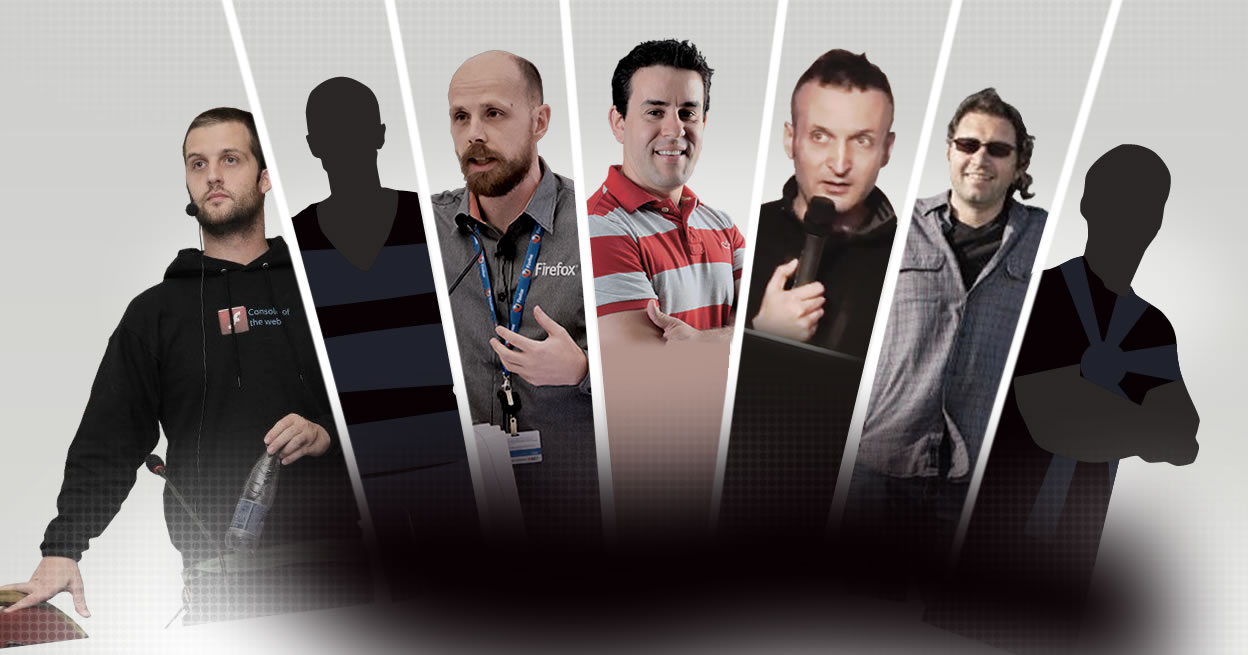
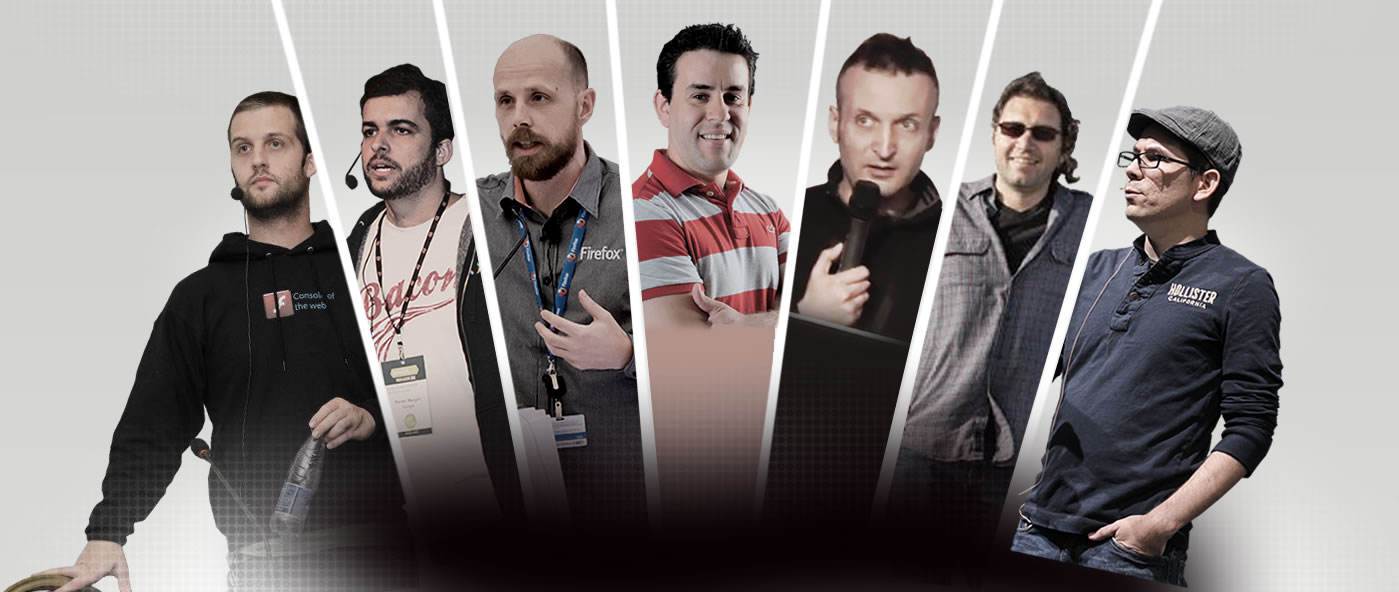
Adding updated files

diff --git a/speakers/caridy.html b/speakers/caridy.html
@@ -6,8 +6,8 @@
     <head>
         <meta charset="utf-8" />
         <meta http-equiv="X-UA-Compatible" content="IE=edge,chrome=1" />
-        <title>Douglas Crockford - BrazilJS 2013</title>
-        <meta name="description" content="BrazilJS Conf 2013 - Douglas Crockford" />
+        <title>Caridy Patino - BrazilJS 2013</title>
+        <meta name="description" content="BrazilJS Conf 2013 - Caridy Patino" />
         <meta name="author" content="marimbondo.me - Web com gominho :)" />
         <link rel="apple-touch-icon" href="../apple-touch-icon.png" />
         <link rel="icon" href="../facebook.png" type="image/x-icon">
@@ -21,29 +21,29 @@
         <link rel="stylesheet" href="../css/main.css" />
         <link rel="stylesheet" href="css/context.css" />
         <link type="text/plain" rel="author" href="../humans.txt" />
-        <link rel="canonical" href="http://braziljs.com.br/speakers/douglas.html" />
+        <link rel="canonical" href="http://braziljs.com.br/speakers/caridy.html" />
 
         <!--[if lt IE 9]>
                 <script src="//html5shim.googlecode.com/svn/trunk/html5.js"></script>
         <![endif]-->
 
         <!-- OPEN GRAPH -->
-        <meta property="og:url" content="http://braziljs.com.br/speakers/douglas.html" />
+        <meta property="og:url" content="http://braziljs.com.br/speakers/caridy.html" />
         <meta property="og:type" content="Website" /> 
-        <meta property="og:title" content="Douglas Crockford - BrazilJS Conf 2013!" /> 
+        <meta property="og:title" content="Caridy Patino - BrazilJS Conf 2013!" /> 
         <meta property="og:image" content="http://braziljs.com.br/facebook.png" /> 
-        <meta property="og:description" content="Venha assistir a palestra de Douglas Crockford na BrazilJS Conf - 2013!" />
+        <meta property="og:description" content="Venha assistir a palestra de Caridy Patino na BrazilJS Conf - 2013!" />
 		<meta property="fb:admins" content="1114477480" /> 
 		<meta property="fb:app_id" content="136223956547034" /> 
 		<meta property="og:site_name" content="BrazilJS Conference" />
 
     </head>
-    <body class="douglas">
+    <body class="caridy">
     	<div class="wrapper">    		
 			<div id="speakers">
 				<div class="speakers-wrapper">
 					<span class="burst">&nbsp;</span>
-					<span class="speaker ir">Olá meu nome é Douglas Crockford</span>
+					<span class="speaker ir">Olá meu nome é Caridy Patino</span>
 					<div class="ballons">
 						<span class="calling what">vem ver minha palestra...</span>
 						<span class="calling where">... na <b>brazilJs conf!!</b></span>
@@ -54,28 +54,32 @@
 			</div>
 			<div class="speaker-info">
 				<div class="info-container">
-					<h1 class="name" itemprop="name">Douglas Crockford</h1>
-					<strong class="company" itemprop="worksFor">Paypal</strong>					
+					<h1 class="name" itemprop="name">Caridy Patino</h1>
+					<strong class="company" itemprop="worksFor">Yahoo!</strong>					
 				</div>
 				<div id="social-networks">
 					<strong class="like-it ir ico-general">Curtiu? Compartilha!</strong>
 					<ul>
-						<li><div class="fb-like" data-href="http://braziljs.com.br/speakers/douglas.html" data-send="false" data-layout="box_count" data-width="72" data-show-faces="false"></div></li>
-						<li><a href="https://twitter.com/share" class="twitter-share-button" data-url="http://braziljs.com.br/speakers/douglas.html" data-via="braziljs" data-lang="en" data-count="vertical">Tweet</a></li>
+						<li><div class="fb-like" data-href="http://braziljs.com.br/speakers/caridy.html" data-send="false" data-layout="box_count" data-width="72" data-show-faces="false"></div></li>
+						<li><a href="https://twitter.com/share" class="twitter-share-button" data-url="http://braziljs.com.br/speakers/caridy.html" data-via="braziljs" data-lang="en" data-count="vertical">Tweet</a></li>
 						<li><div class="g-plusone" data-size="tall"></div></li>
 					</ul>
 				</div>
 				<div class="description" itemprop="description">
-					<p>Doug estava lá durante o nascimento desta midia que conquista a nossa atenção e tempo, desde então, se tornou um dos precursores e líderes no JavaScript, a linguagem de programação mais popular do mundo.</p>
-					<p>Foi o descobridor do do formato JSON (JavaScript Object Notation) enquanto era o CTO de State Software, criou a ferramenta JSLint e é o autor do referenciado JavaScript: The Good Parts.</p>
+					<p>Principal desenvolvedor front-end no Yahoo!, membro do core team da biblioteca YUI com extensiva experiência em end-to-end design e arquitetura de aplicações web performáticas e escaláveis.</p>
+					<p>No momento, Caridy esta focado nas plataformas SSJS/NodeJS e Yahoo! Cocktails.</p>
+					<p>Caridy é palestrante, mentor e professor.</p>
 				</div>
 				<h2 class="find-me">Nas redes sociais:</h2>
 				<ul class="my-social-links">
 					<li>
-						<a class="github" href="https://github.com/douglascrockford" title="github">github</a>
+						<a class="github" href="https://github.com/caridy" title="github">github</a>
 					</li>
 					<li>
-						<a class="blog" href="http://www.crockford.com/" title="http://www.crockford.com/" itemprop="url">http://www.crockford.com/</a>
+						<a class="twitter" href="https://twitter.com/caridy" title="Twitter">Twitter</a>
+					</li>					
+					<li>
+						<a class="blog" href="http://caridy.name" title="http://caridy.name" itemprop="url">http://caridy.name</a>
 					</li>															
 				</ul>
 				<a href="//www.braziljs.com.br" title="Home" class="home-container">

diff --git a/speakers/renato.html b/speakers/renato.html
@@ -6,8 +6,8 @@
     <head>
         <meta charset="utf-8" />
         <meta http-equiv="X-UA-Compatible" content="IE=edge,chrome=1" />
-        <title>Douglas Crockford - BrazilJS 2013</title>
-        <meta name="description" content="BrazilJS Conf 2013 - Douglas Crockford" />
+        <title>Renato Mangini - BrazilJS 2013</title>
+        <meta name="description" content="BrazilJS Conf 2013 - Renato Mangini" />
         <meta name="author" content="marimbondo.me - Web com gominho :)" />
         <link rel="apple-touch-icon" href="../apple-touch-icon.png" />
         <link rel="icon" href="../facebook.png" type="image/x-icon">
@@ -21,29 +21,29 @@
         <link rel="stylesheet" href="../css/main.css" />
         <link rel="stylesheet" href="css/context.css" />
         <link type="text/plain" rel="author" href="../humans.txt" />
-        <link rel="canonical" href="http://braziljs.com.br/speakers/douglas.html" />
+        <link rel="canonical" href="http://braziljs.com.br/speakers/renato.html" />
 
         <!--[if lt IE 9]>
                 <script src="//html5shim.googlecode.com/svn/trunk/html5.js"></script>
         <![endif]-->
 
         <!-- OPEN GRAPH -->
-        <meta property="og:url" content="http://braziljs.com.br/speakers/douglas.html" />
+        <meta property="og:url" content="http://braziljs.com.br/speakers/renato.html" />
         <meta property="og:type" content="Website" /> 
-        <meta property="og:title" content="Douglas Crockford - BrazilJS Conf 2013!" /> 
+        <meta property="og:title" content="Renato Mangini - BrazilJS Conf 2013!" /> 
         <meta property="og:image" content="http://braziljs.com.br/facebook.png" /> 
-        <meta property="og:description" content="Venha assistir a palestra de Douglas Crockford na BrazilJS Conf - 2013!" />
+        <meta property="og:description" content="Venha assistir a palestra de Renato Mangini na BrazilJS Conf - 2013!" />
 		<meta property="fb:admins" content="1114477480" /> 
 		<meta property="fb:app_id" content="136223956547034" /> 
 		<meta property="og:site_name" content="BrazilJS Conference" />
 
     </head>
-    <body class="douglas">
+    <body class="renato">
     	<div class="wrapper">    		
 			<div id="speakers">
 				<div class="speakers-wrapper">
 					<span class="burst">&nbsp;</span>
-					<span class="speaker ir">Olá meu nome é Douglas Crockford</span>
+					<span class="speaker ir">Olá meu nome é Renato Mangini</span>
 					<div class="ballons">
 						<span class="calling what">vem ver minha palestra...</span>
 						<span class="calling where">... na <b>brazilJs conf!!</b></span>
@@ -54,28 +54,30 @@
 			</div>
 			<div class="speaker-info">
 				<div class="info-container">
-					<h1 class="name" itemprop="name">Douglas Crockford</h1>
-					<strong class="company" itemprop="worksFor">Paypal</strong>					
+					<h1 class="name" itemprop="name">Renato Mangini</h1>
+					<strong class="company" itemprop="worksFor">Google</strong>					
 				</div>
 				<div id="social-networks">
 					<strong class="like-it ir ico-general">Curtiu? Compartilha!</strong>
 					<ul>
-						<li><div class="fb-like" data-href="http://braziljs.com.br/speakers/douglas.html" data-send="false" data-layout="box_count" data-width="72" data-show-faces="false"></div></li>
-						<li><a href="https://twitter.com/share" class="twitter-share-button" data-url="http://braziljs.com.br/speakers/douglas.html" data-via="braziljs" data-lang="en" data-count="vertical">Tweet</a></li>
+						<li><div class="fb-like" data-href="http://braziljs.com.br/speakers/renato.html" data-send="false" data-layout="box_count" data-width="72" data-show-faces="false"></div></li>
+						<li><a href="https://twitter.com/share" class="twitter-share-button" data-url="http://braziljs.com.br/speakers/renato.html" data-via="braziljs" data-lang="en" data-count="vertical">Tweet</a></li>
 						<li><div class="g-plusone" data-size="tall"></div></li>
 					</ul>
 				</div>
 				<div class="description" itemprop="description">
-					<p>Doug estava lá durante o nascimento desta midia que conquista a nossa atenção e tempo, desde então, se tornou um dos precursores e líderes no JavaScript, a linguagem de programação mais popular do mundo.</p>
-					<p>Foi o descobridor do do formato JSON (JavaScript Object Notation) enquanto era o CTO de State Software, criou a ferramenta JSLint e é o autor do referenciado JavaScript: The Good Parts.</p>
+					<p>Renato Mangini é <span itemprop="jobTitle">engenheiro de software</span> da equipe de Developer Relations do Google Chrome, empreendedor, geek, mountain biker e corredor amador nas horas vagas.</p>					
 				</div>
 				<h2 class="find-me">Nas redes sociais:</h2>
 				<ul class="my-social-links">
 					<li>
-						<a class="github" href="https://github.com/douglascrockford" title="github">github</a>
+						<a class="github" href="http://github.com/mangini" title="github">github</a>
 					</li>
 					<li>
-						<a class="blog" href="http://www.crockford.com/" title="http://www.crockford.com/" itemprop="url">http://www.crockford.com/</a>
+						<a class="twitter" href="http://twitter.com/renatomangini" title="Twitter">Twitter</a>
+					</li>					
+					<li>
+						<a class="blog" href="http://www.renatomangini.com/" title="renatomangini.com" itemprop="url">http://www.renatomangini.com/</a>
 					</li>															
 				</ul>
 				<a href="//www.braziljs.com.br" title="Home" class="home-container">

diff --git a/speakers/css/context.css b/speakers/css/context.css
@@ -1,4 +1,4 @@
-#speakers { padding-top:159px; background:url('../img/bgr-speaker.jpg') repeat-x; }
+#speakers { padding-top:159px; background:url('../img/bgr-speaker.jpg') repeat-x; }		
 #speakers .speakers-wrapper { top:-101px; height:300px; }
 #speakers .burst { position:absolute; left:-251px; top:-128px; width:1528px; height:582px; background:url('../img/bg-speakers.jpg') center center no-repeat; }
 #speakers .speakers-wrapper .speaker { position:absolute; left:-21px; margin:0; width:431px; height:433px; z-index:5; }
@@ -8,6 +8,8 @@
 .robert #speakers .speakers-wrapper .speaker { background:url('../img/robert.png') no-repeat; }
 .angus #speakers .speakers-wrapper .speaker { top:16px; background:url('../img/angus.png') no-repeat; }
 .thibault #speakers .speakers-wrapper .speaker { left:-20px; top:10px; background:url('../img/thibault.png') no-repeat; }
+.caridy #speakers .speakers-wrapper .speaker { left:-20px; top:-5px; background:url('../img/caridy.png') no-repeat; }
+.renato #speakers .speakers-wrapper .speaker { left:-20px; top:-5px; background:url('../img/renato.png') no-repeat; }
 #speakers .speakers-wrapper .ballons { position:relative; top:-24px; left:270px; width:224px; height:212px; background:url('../img/ballons.png') no-repeat; }
 #speakers .speakers-wrapper .ballons .calling { position:absolute; font-size:16px; color:#FFF; width:127px; font-family:"Comic Sans MS", 'arial'; text-transform:uppercase; text-align:center; -webkit-transform:rotate(-22deg); -moz-transform:rotate(-22deg); -o-transform:rotate(-22deg); -ms-transform:rotate(-22deg); transform:rotate(-22deg); }
 #speakers .speakers-wrapper .ballons .calling.what { left:5px; top:22px; }
@@ -44,7 +46,38 @@
 
 @media (min-width: 0) and (max-width: 500px) {
 
-	#speakers .speakers-wrapper { width:1000px; }
-	#speakers .cities { position:absolute; display:inline; height:278px; background: url("../../img/bg-header.png") repeat-x center center; }
+	#speakers { overflow:visible; padding-top:82px; margin-bottom:100px; }
+	#speakers .speakers-wrapper { width:350px; height:66px; background:none; }
+	#speakers .burst { position:static; display:block; width:482px; height:92px; background:url('../img/mobile/bg-thunder.png') center center no-repeat; }
+	#speakers .speakers-wrapper .speaker { left:-5px; top:36px; width:200px; height:310px; z-index:6; }
+	.douglas  #speakers .speakers-wrapper .speaker { left:-4px; top:51px; background:url('../img/mobile/douglas.png') no-repeat; }
+	.robert #speakers .speakers-wrapper .speaker { left:-2px; top:40px; background:url('../img/mobile/robert.png') no-repeat; }
+	.thibault #speakers .speakers-wrapper .speaker { left:-48px; top:48px; width:238px; background:url('../img/mobile/thibault.png') no-repeat; }
+	.stoyan  #speakers .speakers-wrapper .speaker { left:-29px; top:58px; background:url('../img/mobile/stoyan.png') no-repeat; }
+	.angus  #speakers .speakers-wrapper .speaker { left:-3px; top:79px; background:url('../img/mobile/angus.png') no-repeat; }
+	.marcel  #speakers .speakers-wrapper .speaker { left:-3px; top:79px; background:url('../img/mobile/marcel.png') no-repeat; }
+	.caridy  #speakers .speakers-wrapper .speaker { left:-2px; top:34px; background:url('../img/mobile/caridy.png') no-repeat; }
+	.renato  #speakers .speakers-wrapper .speaker { left:-7px; top:50px; width:212px; background:url('../img/mobile/renato.png') no-repeat; }
+	#speakers .speakers-wrapper .logo { float:none; display:block; left:128px; top:-109px; width:178px; height:82px; background:url('../img/mobile/logo.png') no-repeat; }
+	#speakers .speakers-wrapper .ballons { left:197px; top:147px; height:81px; width:97px; background:url('../img/mobile/ttl-general.png') no-repeat; }
+	#speakers .speakers-wrapper .ballons .calling.what { display:none; }
+	#speakers .speakers-wrapper .ballons .calling.where { display:none; }	
+
+	.speaker-info { margin:auto; padding:0 15px; width:320px; }
+	.speaker-info .info-container { margin-bottom:20px; }
+	.speaker-info .info-container .name { font-size:26px; line-height:26px; }
+	.speaker-info .info-container .company { font-size:16px; line-height:16px; }
+	.speaker-info #social-networks { float:left; left:-115px; margin-bottom:20px; padding:43px 150px; width:550px; height:182px; background-color:#161414; }
+	.speaker-info #social-networks .like-it { bottom:29px; left:127px; width:90px; height:61px; background:url('../img/mobile/ico-general.png') no-repeat; }
+	.speaker-info .description { width:285px; font-size:14px; }
+	.speaker-info .my-social-links { margin-bottom:50px; }
+	.speaker-info .home-container { margin-bottom:45px; width:255px; }
+	.speaker-info .home-container .home { width:207px; height:52px; background:url('../img/mobile/ttl-general.png') -7px -83px no-repeat; }
+
+	.footer-container { height:53px; }
+	.footer-container .cities,
+	.footer-container .gradient { display:none; }
+	.footer-container .debug { width:300px;}
+	.footer-container .debug .coins { display:block; margin-left:75px; }
 
 }

diff --git a/css/main.css b/css/main.css
@@ -133,7 +133,7 @@ body { background-color:#201C1D; }
 /* SPEAKERS */
 #speakers { width:100%; position:relative; background-color:#D3D3D1; overflow:hidden; background-image: -webkit-linear-gradient(bottom, rgb(220,222,217) 15%, rgb(209,209,204) 66%); background-image:-moz-linear-gradient(50% 0% -90deg,rgb(207,208,205) 0%,rgba(207,208,205,0) 25%); background-image: -o-linear-gradient(bottom, rgb(220,222,217) 15%, rgb(209,209,204) 66%); background-image: -ms-linear-gradient(bottom, rgb(220,222,217) 15%, rgb(209,209,204) 66%); background-image:linear-gradient(bottom, rgb(220,222,217) 15%, rgb(209,209,204) 66%); }
 #speakers .speakers-wrapper { position:relative; margin:auto; height:605px; width:1000px; }
-#speakers .speakers-wrapper .shadows { position:absolute; left:-220px; width:1333px; height:619px; background:url('../img/shadows.jpg') no-repeat center center; }
+#speakers .speakers-wrapper .shadows { position:absolute; left:-176px; width:1333px; height:590px; background:url('../img/shadows.jpg') no-repeat center center; }
 #speakers .cities { position:absolute; bottom:-71px; height:278px; width:100%; background:url('../img/bg-header.png') repeat-x center center; z-index:2; }
 
 /* HEADER */

diff --git a/speakers/marcel.html b/speakers/marcel.html
@@ -11,7 +11,7 @@
         <meta name="author" content="marimbondo.me - Web com gominho :)" />
         <link rel="apple-touch-icon" href="../apple-touch-icon.png" />
         <link rel="icon" href="../facebook.png" type="image/x-icon">        
-	    
+	    <meta name="viewport" content="width=device-width, initial-scale=1.0"/>
 	    <link rel="dns-prefetch" href="//apis.google.com/">
 	    <link rel="dns-prefetch" href="//www.google-analytics.com">
 	    <link rel="dns-prefetch" href="//connect.facebook.net/">

diff --git a/speakers/stoyan.html b/speakers/stoyan.html
@@ -11,7 +11,7 @@
         <meta name="author" content="marimbondo.me - Web com gominho :)" />
         <link rel="apple-touch-icon" href="../apple-touch-icon.png" />
         <link rel="icon" href="../facebook.png" type="image/x-icon">        
-	    
+	    <meta name="viewport" content="width=device-width, initial-scale=1.0"/>
 	    <link rel="dns-prefetch" href="//apis.google.com/">
 	    <link rel="dns-prefetch" href="//www.google-analytics.com">
 	    <link rel="dns-prefetch" href="//connect.facebook.net/">

diff --git a/speakers/thibault.html b/speakers/thibault.html
@@ -11,7 +11,7 @@
         <meta name="author" content="marimbondo.me - Web com gominho :)" />
         <link rel="apple-touch-icon" href="apple-touch-icon.png" />
         <link rel="icon" href="../facebook.png" type="image/x-icon">        
-	    
+	    <meta name="viewport" content="width=device-width, initial-scale=1.0"/>
 	    <link rel="dns-prefetch" href="//apis.google.com/">
 	    <link rel="dns-prefetch" href="//www.google-analytics.com">
 	    <link rel="dns-prefetch" href="//connect.facebook.net/">

diff --git a/speakers/angus.html b/speakers/angus.html
@@ -11,7 +11,7 @@
         <meta name="author" content="marimbondo.me - Web com gominho :)" />
         <link rel="apple-touch-icon" href="../apple-touch-icon.png" />
         <link rel="icon" href="../facebook.png" type="image/x-icon">
-	    
+	    <meta name="viewport" content="width=device-width, initial-scale=1.0"/>
 	    <link rel="dns-prefetch" href="//apis.google.com/">
 	    <link rel="dns-prefetch" href="//www.google-analytics.com">
 	    <link rel="dns-prefetch" href="//connect.facebook.net/">

diff --git a/speakers/robert.html b/speakers/robert.html
@@ -11,7 +11,7 @@
         <meta name="author" content="marimbondo.me - Web com gominho :)" />
         <link rel="apple-touch-icon" href="../apple-touch-icon.png" />
         <link rel="icon" href="../facebook.png" type="image/x-icon">
-	    
+	    <meta name="viewport" content="width=device-width, initial-scale=1.0"/>
 	    <link rel="dns-prefetch" href="//apis.google.com/">
 	    <link rel="dns-prefetch" href="//www.google-analytics.com">
 	    <link rel="dns-prefetch" href="//connect.facebook.net/">
